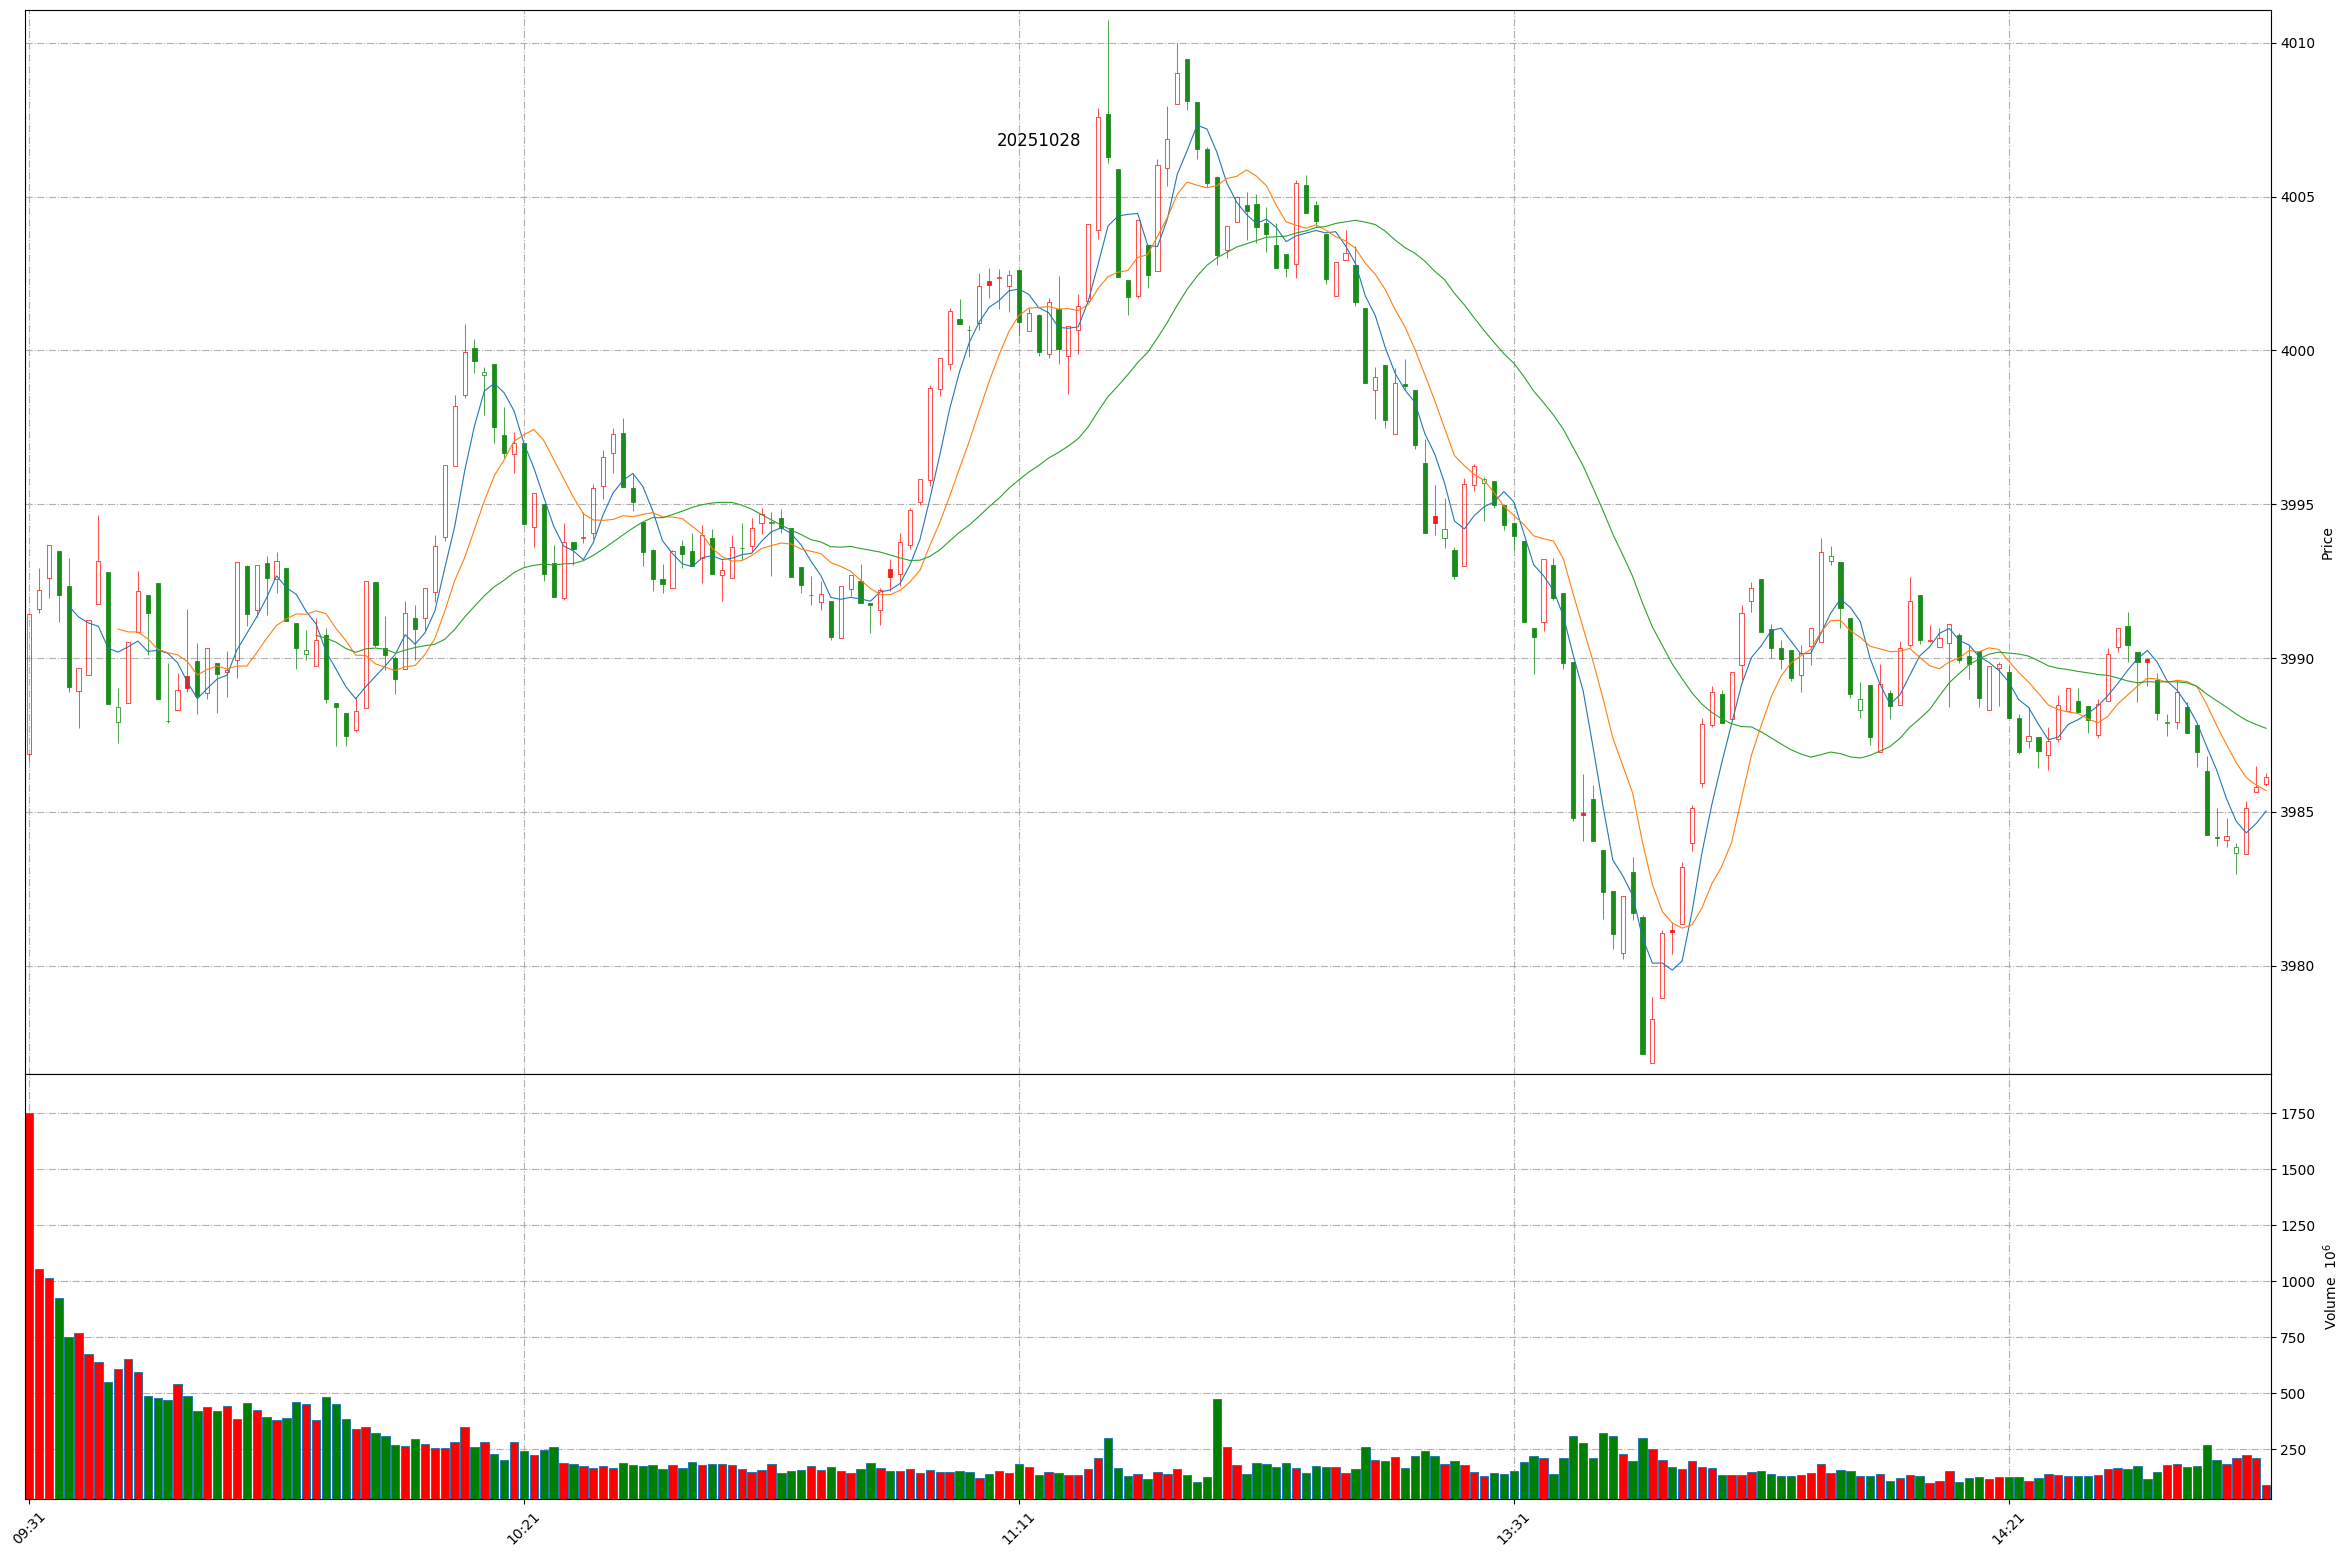
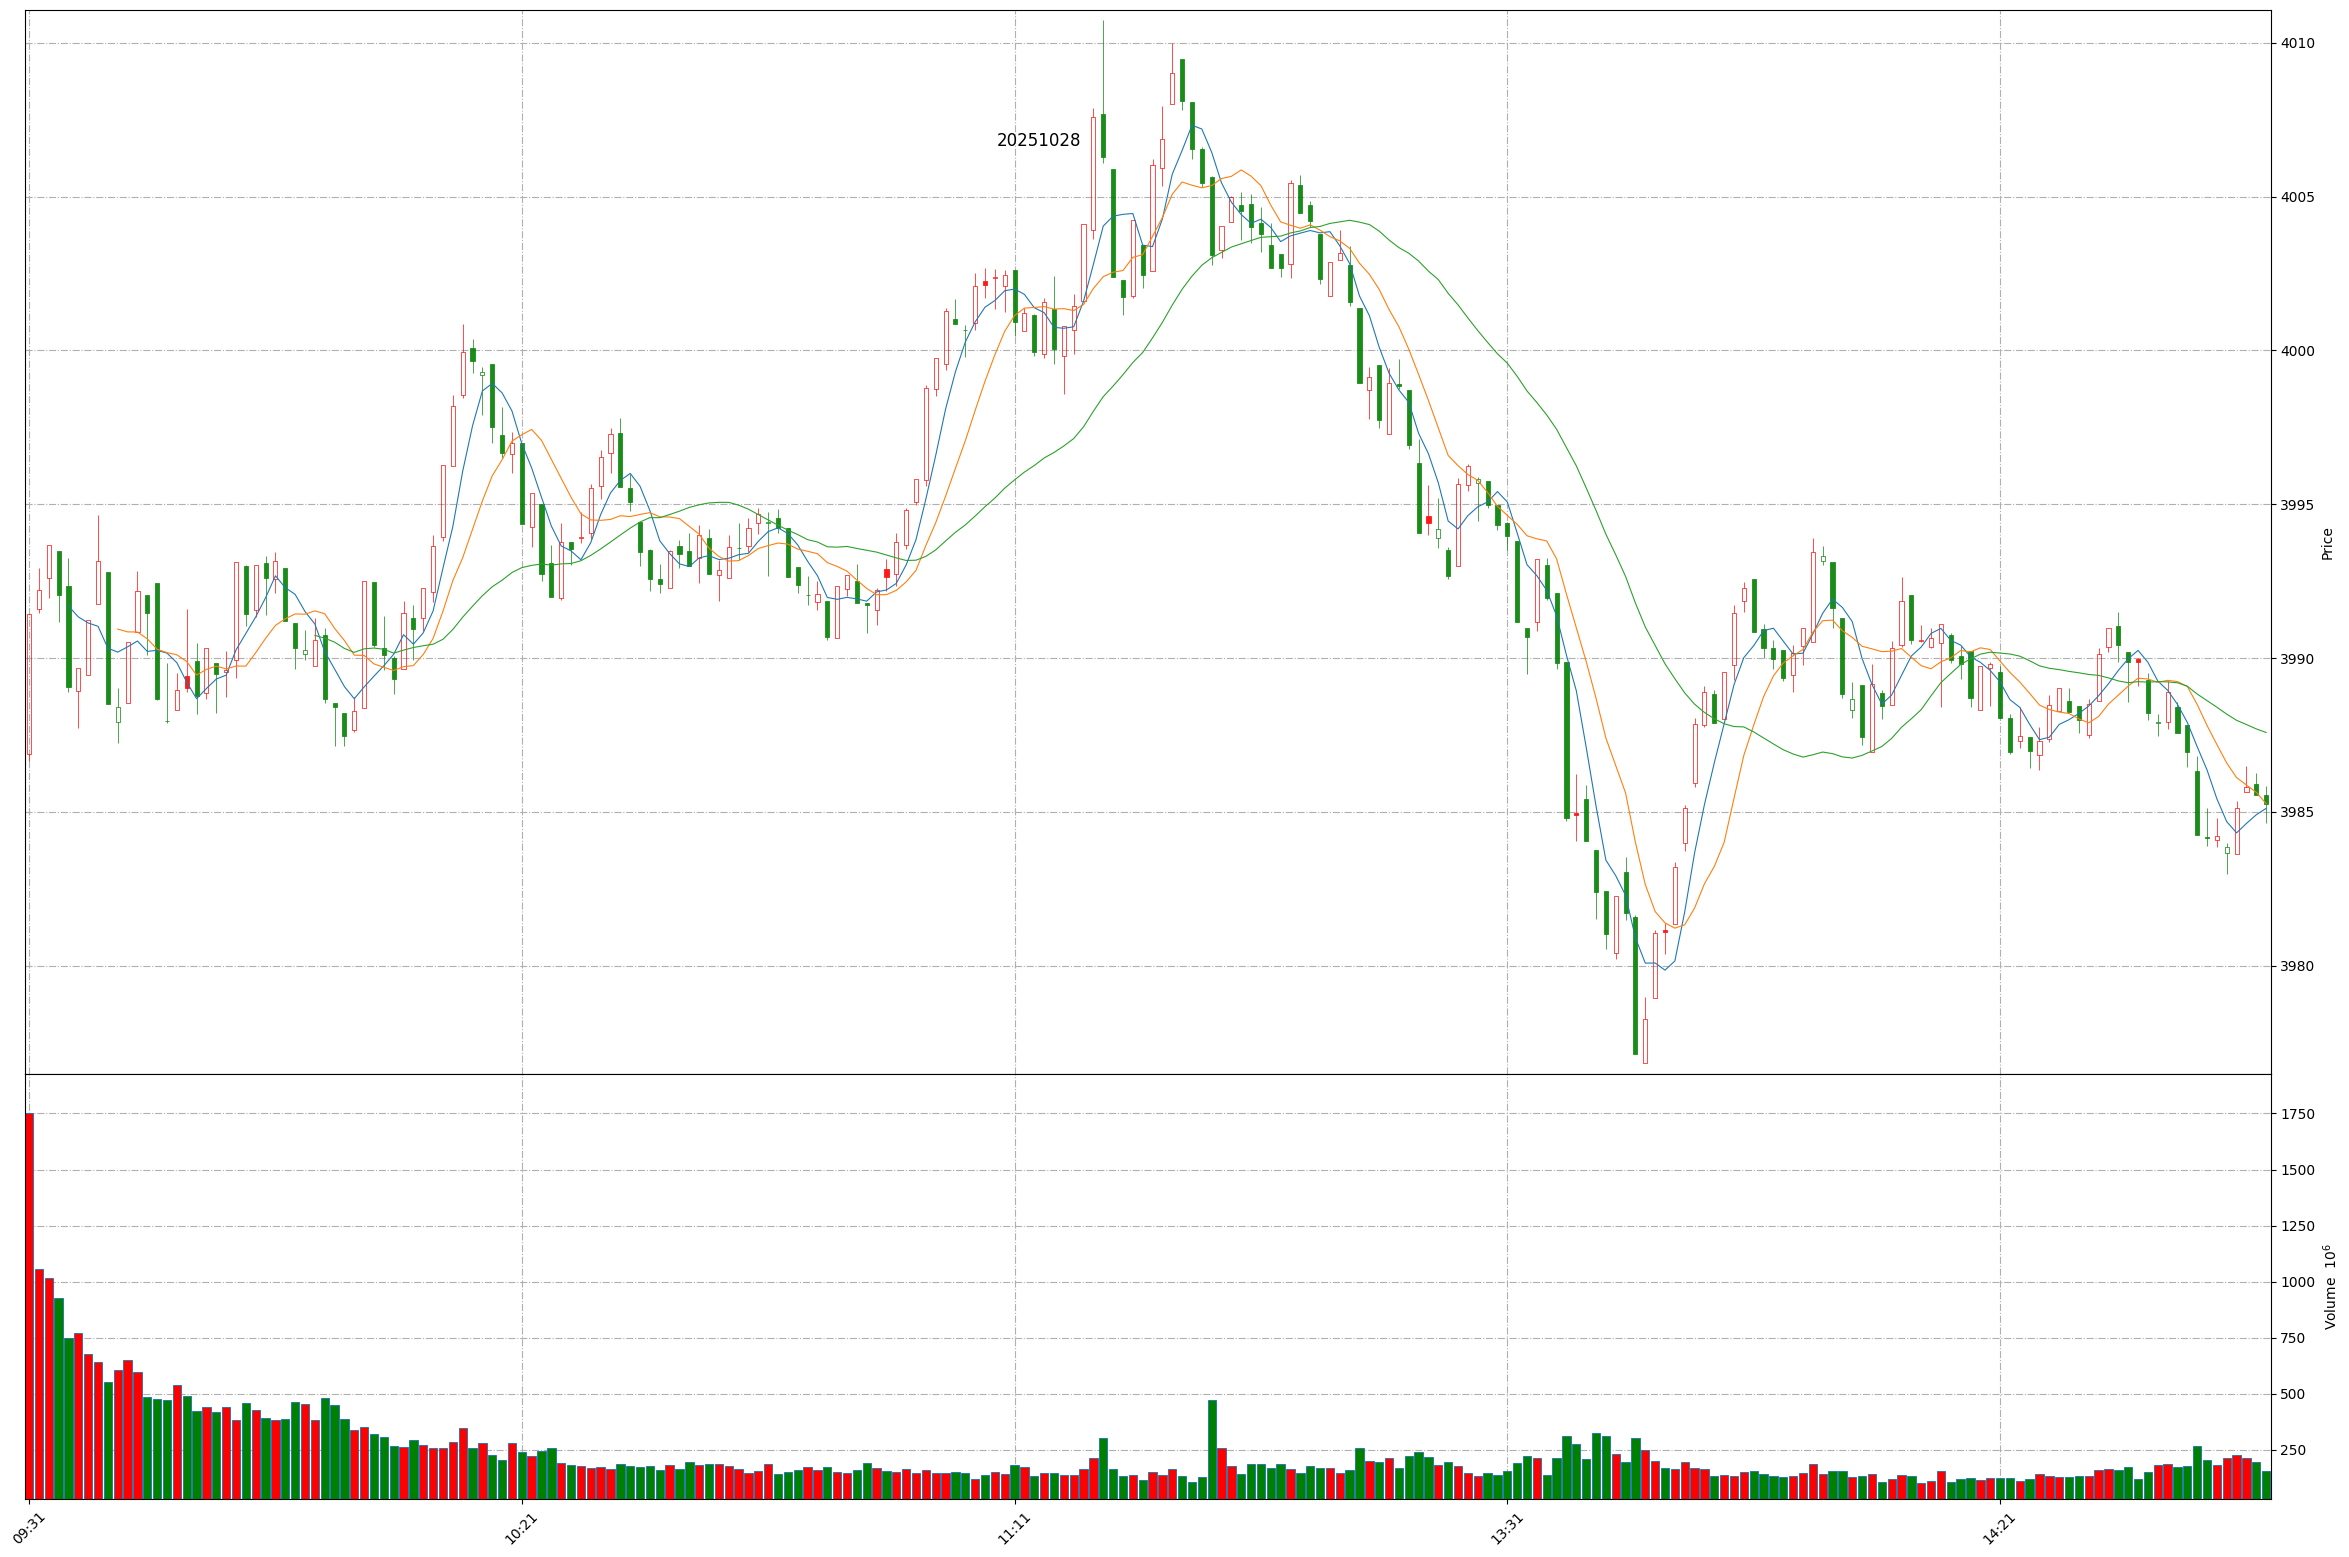
Github action update at 2025-10-28 14:48:06.

diff --git a/README.md b/README.md
@@ -1,11 +1,11 @@
 
 # Daily-A-share-market-quotes 每日 A 股指数（5min 更新）- 20251028
 
-### 上证指数 20251028 14:46
+### 上证指数 20251028 14:48
 ![](./fig/2025/10/20251028-sh000001.png)
 
-### 深证成指 20251028 14:46
+### 深证成指 20251028 14:48
 ![](./fig/2025/10/20251028-sz399001.png)
 
-### 北证50 20251028 14:46
+### 北证50 20251028 14:48
 ![](./fig/2025/10/20251028-bj899050.png)
